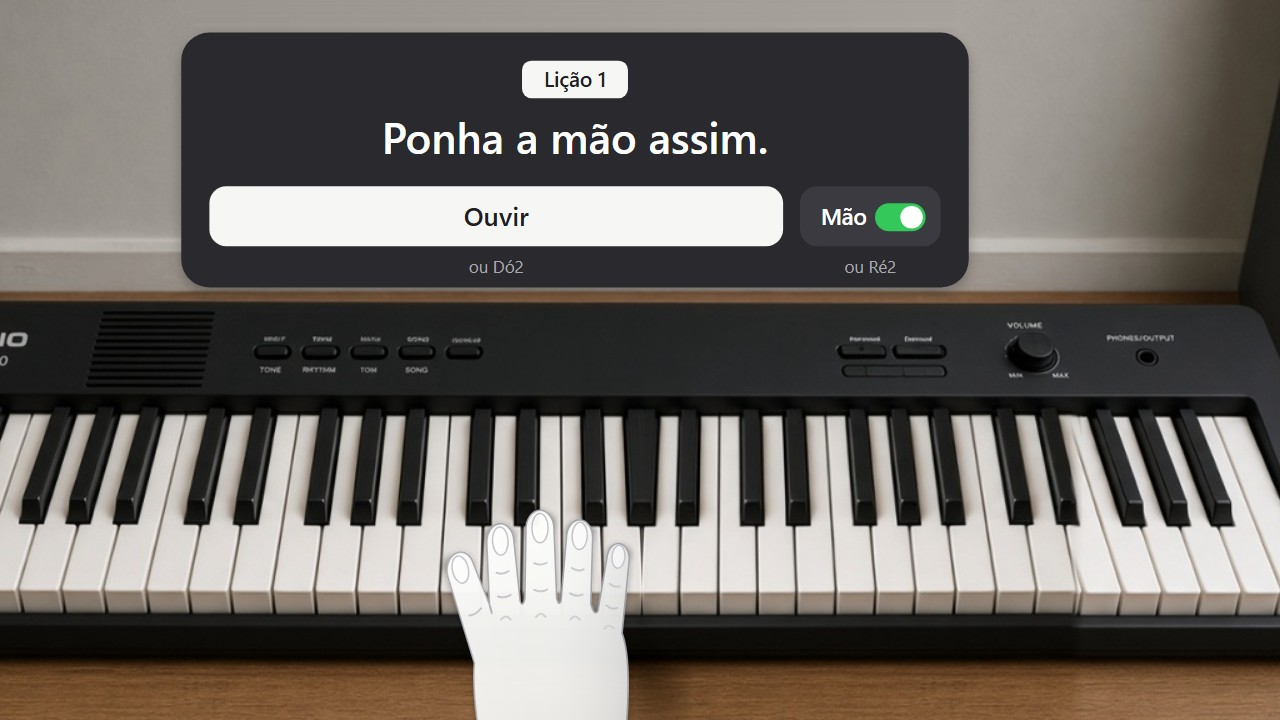
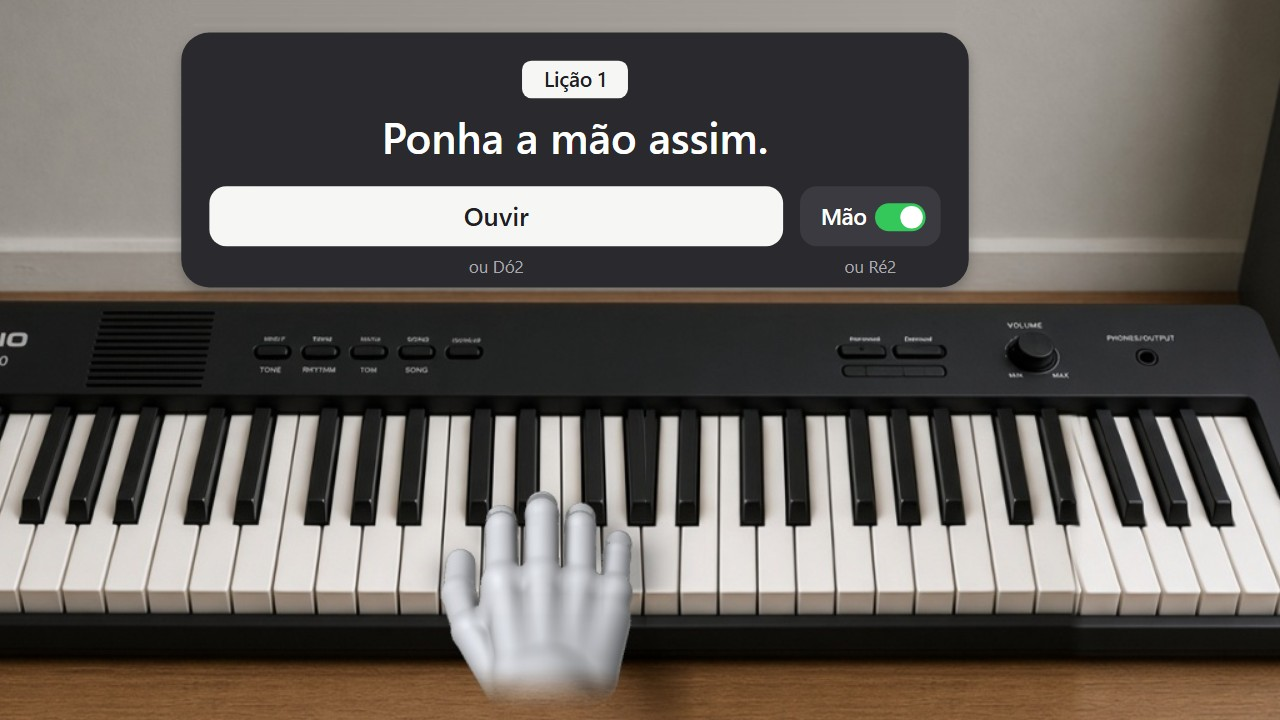
Give the cover a 3D hand with real anatomy in the Quest hand style.
The hand is seen from behind as the player sees it, thumb on middle C and one finger per key up to G. Docs 03 and 05 now describe the same hand.

Changed region(s): [[0.3125, 0.6722, 0.5312, 1.0]]

diff --git a/docs/03-conceito-prototipo-ar.md b/docs/03-conceito-prototipo-ar.md
@@ -53,7 +53,7 @@ Botões altos o suficiente para pinça folgada. Cada botão mostra, numa linha m
 
 ## 4. Mão branca
 
-Branca fosca, mão direita, asset original. Sem pele, sem vidro, sem segunda mão. Detalhes do asset: [05 §7](05-arquitetura-tecnica.md#7-mão-branca-asset).
+Branca fosca, mão direita, asset original, com anatomia de mão real e o visual das mãos do sistema do Quest (some em degradê no pulso). Sem pele, sem vidro, sem segunda mão. Detalhes do asset: [05 §7](05-arquitetura-tecnica.md#7-mão-branca-asset).
 
 - **Pose.** Parada na posição de cinco dedos. Card: “Ponha a mão assim.” Pose aceita (RF-31): começa o loop.
 - **Demonstração.** Ao apertar “Ouvir”, a mão desce o dedo de cada nota junto com o som do piano.
@@ -144,7 +144,7 @@ Fora desse recorte, as outras lições são dados do catálogo, não cena nova.
 
 A referência visual vigente é a prova de conceito em `docs/visao/poc/` (um quadro por passo, mostrado no README) e a capa `docs/visao/capa-licao1.jpg`. Nos quadros, os balões roxos são explicação e não fazem parte do app.
 
-A capa é a foto de passthrough com a camada do app desenhada por cima, como num print do headset: card da pose com “Ouvir”, “Mão” e as teclas de atalho, e a mão branca em escala real com o polegar no dó central.
+A capa é a foto de passthrough com a camada do app desenhada por cima, como num print do headset: card da pose com “Ouvir”, “Mão” e as teclas de atalho, e a mão branca em 3D, em escala real, vista de trás como a pessoa a vê, com o polegar no dó central e um dedo por tecla até o sol.
 
 As fotos antigas (`quest-*.jpg`) ficam só como referência de clima e estão substituídas:
 

diff --git a/docs/05-arquitetura-tecnica.md b/docs/05-arquitetura-tecnica.md
@@ -110,7 +110,9 @@ Origem na borda esquerda da frente da tecla branca mais grave, na superfície da
 
 - Original (RN-04): modelada e animada para este app; nenhum asset de mão da Meta é reutilizado.
 - Mão direita, rig com 5 dedos, até 10 mil triângulos.
-- Material branco fosco, com contorno suave para separar do passthrough claro.
+- Anatomia de mão adulta real: palma, nós dos dedos, três falanges por dedo (duas no polegar), polegar saindo da base da palma. Sem unha, ruga ou textura de pele.
+- Estilo das mãos do sistema do Quest: cinza-claro fosco, borda mais clara contra o fundo (fresnel), some em degradê no pulso. Contorno suave onde um dedo passa na frente de outro, para separar do passthrough claro.
+- Sombra de contato falsa (decal) sob a mão, não sombra em tempo real (§8). Referência: `docs/visao/capa-licao1.jpg`.
 - Pose base: posição de cinco dedos, dedos levemente curvos, polegar sobre a tecla 60.
 - Animação por dedo: descer ~120 ms, segurar enquanto a nota soa, subir ~120 ms.
 - Destaque do dedo da vez: cor âmbar no dedo, igual à da tecla alvo.
